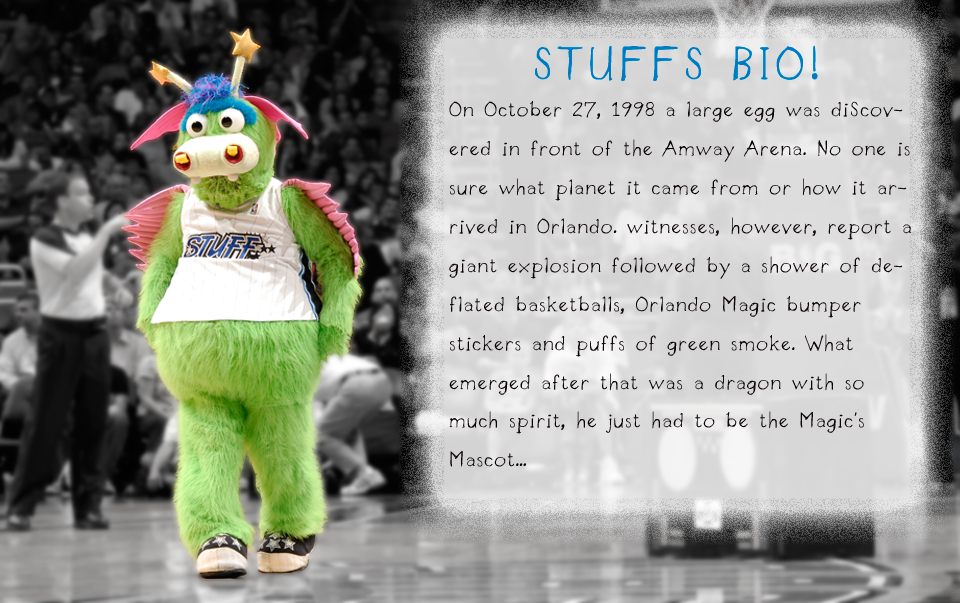
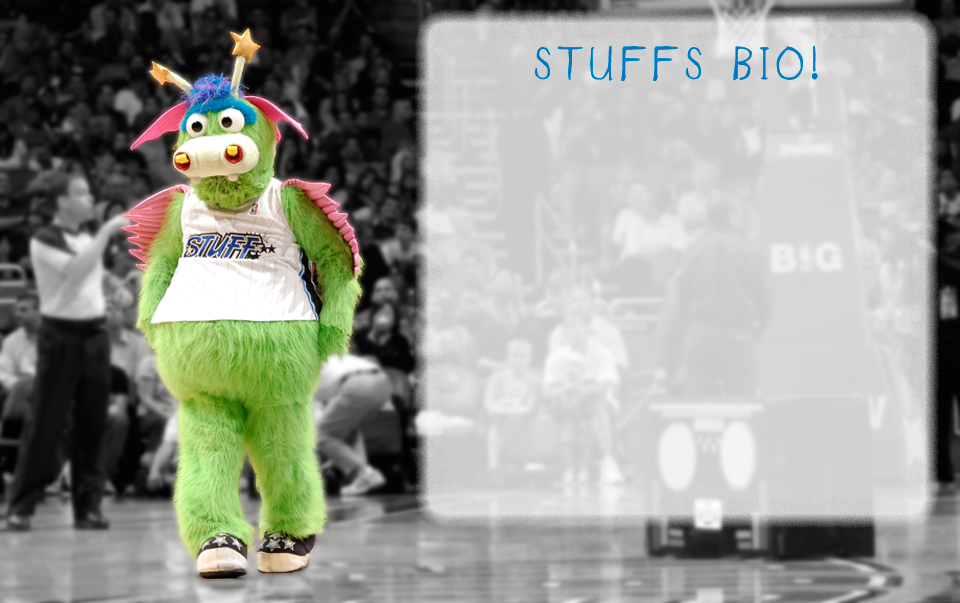
Prototype 3.6

diff --git a/MagicPrototype/bio.html b/MagicPrototype/bio.html
@@ -49,9 +49,15 @@
 		<div id="contentwrapper">
 		 <div class="slider-wrapper theme-default">
             <div id="slider" class="nivoSlider bioslider">
-                <img src="img/b1.png" height="603" width="960" data-thumb="img/bioMainwithText.png" alt="" />
-                <img src="img/b2.png" height="603" width="960" data-thumb="img/bioMain2.png" alt="" data-transition="" />
+                <img src="img/b1.png" height="603" width="960" title="#test1" data-thumb="img/bioMainwithText.png" alt="" />
+                <img src="img/b2.png" height="603" width="960" title="#test2" data-thumb="img/bioMain2.png" alt="" data-transition="" />
                 <img src="img/b3.png" height="603" width="960" data-thumb="img/bioMain3.png" alt=""/>
+            </div>
+            <div id="test1" class="nivo-html-caption">
+                <div id="cap1">On October 27, 1998 a large egg was diScovered in front of the Amway Arena. No one is sure what planet it came from or how it arrived in Orlando. witnesses, however, report a giant explosion followed by a shower of deflated basketballs, Orlando Magic bumper stickers and puffs of green smoke. What emerged after that was a dragon with so much spirit, he just had to be the Magic’s Mascot...</div> 
+            </div>
+            <div id="test2" class="nivo-html-caption">
+                <strong>This</strong> is an BOOM of a <em>HTML</em> caption with <a href="#">a link</a>. 
             </div>
         </div>
 	</div><! End Content Wrapper ->
@@ -85,7 +91,7 @@
         nextText: 'Next', // Next directionNav text
         randomStart: false // Start on a random slide
 	   	 });
-	    });
+	   });
 </script>
 </body>
 </html>

diff --git a/MagicPrototype/css/nivo-slider.css b/MagicPrototype/css/nivo-slider.css
@@ -59,12 +59,12 @@
 	position:absolute;
 	left:0px;
 	bottom:0px;
-	background:#000;
+	/* background:#000; */
 	color:#fff;
 	width:100%;
 	z-index:8;
 	padding: 5px 10px;
-	opacity: 0.8;
+	/* opacity: 0.8; */
 	overflow: hidden;
 	display: none;
 	-moz-opacity: 0.8;
@@ -73,16 +73,26 @@
 	-moz-box-sizing: border-box;    /* Firefox, other Gecko */
 	box-sizing: border-box;         /* Opera/IE 8+ */
 }
+
+/*
 .nivo-caption p {
 	padding:5px;
 	margin:0;
 }
+
+*/
 .nivo-caption a {
 	display:inline !important;
 }
 .nivo-html-caption {
     display:none;
 }
+
+.nivo-caption #test1{
+	background-color: yellow;
+}
+
+
 /* Direction nav styles (e.g. Next & Prev) */
 .nivo-directionNav a {
 	position:absolute;

diff --git a/MagicPrototype/css/style.css b/MagicPrototype/css/style.css
@@ -146,6 +146,12 @@ nav ul li a:hover{
 	margin-top: -3px;
 }
 
+#social_f:hover, #social_t:hover{
+	background-color: green;
+}
+
+
+
 #logo{
 	position: absolute;
 	z-index: 100;
@@ -286,9 +292,7 @@ nav ul li a:hover{
 	height: 375px;
 }
 
-
-
-
+/* Twitter Styles */
 
 
 .tweet,
@@ -337,4 +341,15 @@ nav ul li a:hover{
 		
 .tweet_list .tweet_avatar img {
 	vertical-align: middle;
+}
+
+/* BIO Page */
+
+#cap1 {
+	width: 400px;
+	margin-left: 460px;
+	line-height: 35px;
+	margin-bottom: 140px;
+	font-size: 20px;
+	color: black;
 }

diff --git a/MagicPrototype/home.html b/MagicPrototype/home.html
@@ -41,8 +41,8 @@
 				<li><a href="#">Book STUFF!</a></li>
 				<li><a href="#">13 Before 13</a></li>
 				<li><a href="#">STUFF'S School Show</a></li>
-				<li class="social"><a href="#"><img class="social" src="img/f.png"></a></li>
-				<li class="social"><a href="#"><img class="social" src="img/t.png"></a></li>
+				<li class="social"><a href="#"><img id="social_f" src="img/f.png"></a></li>
+				<li class="social"><a href="#"><img id="social_t" src="img/t.png"></a></li>
 				</ul>
 		</nav>
 		</div><! End Nav Wrap >
